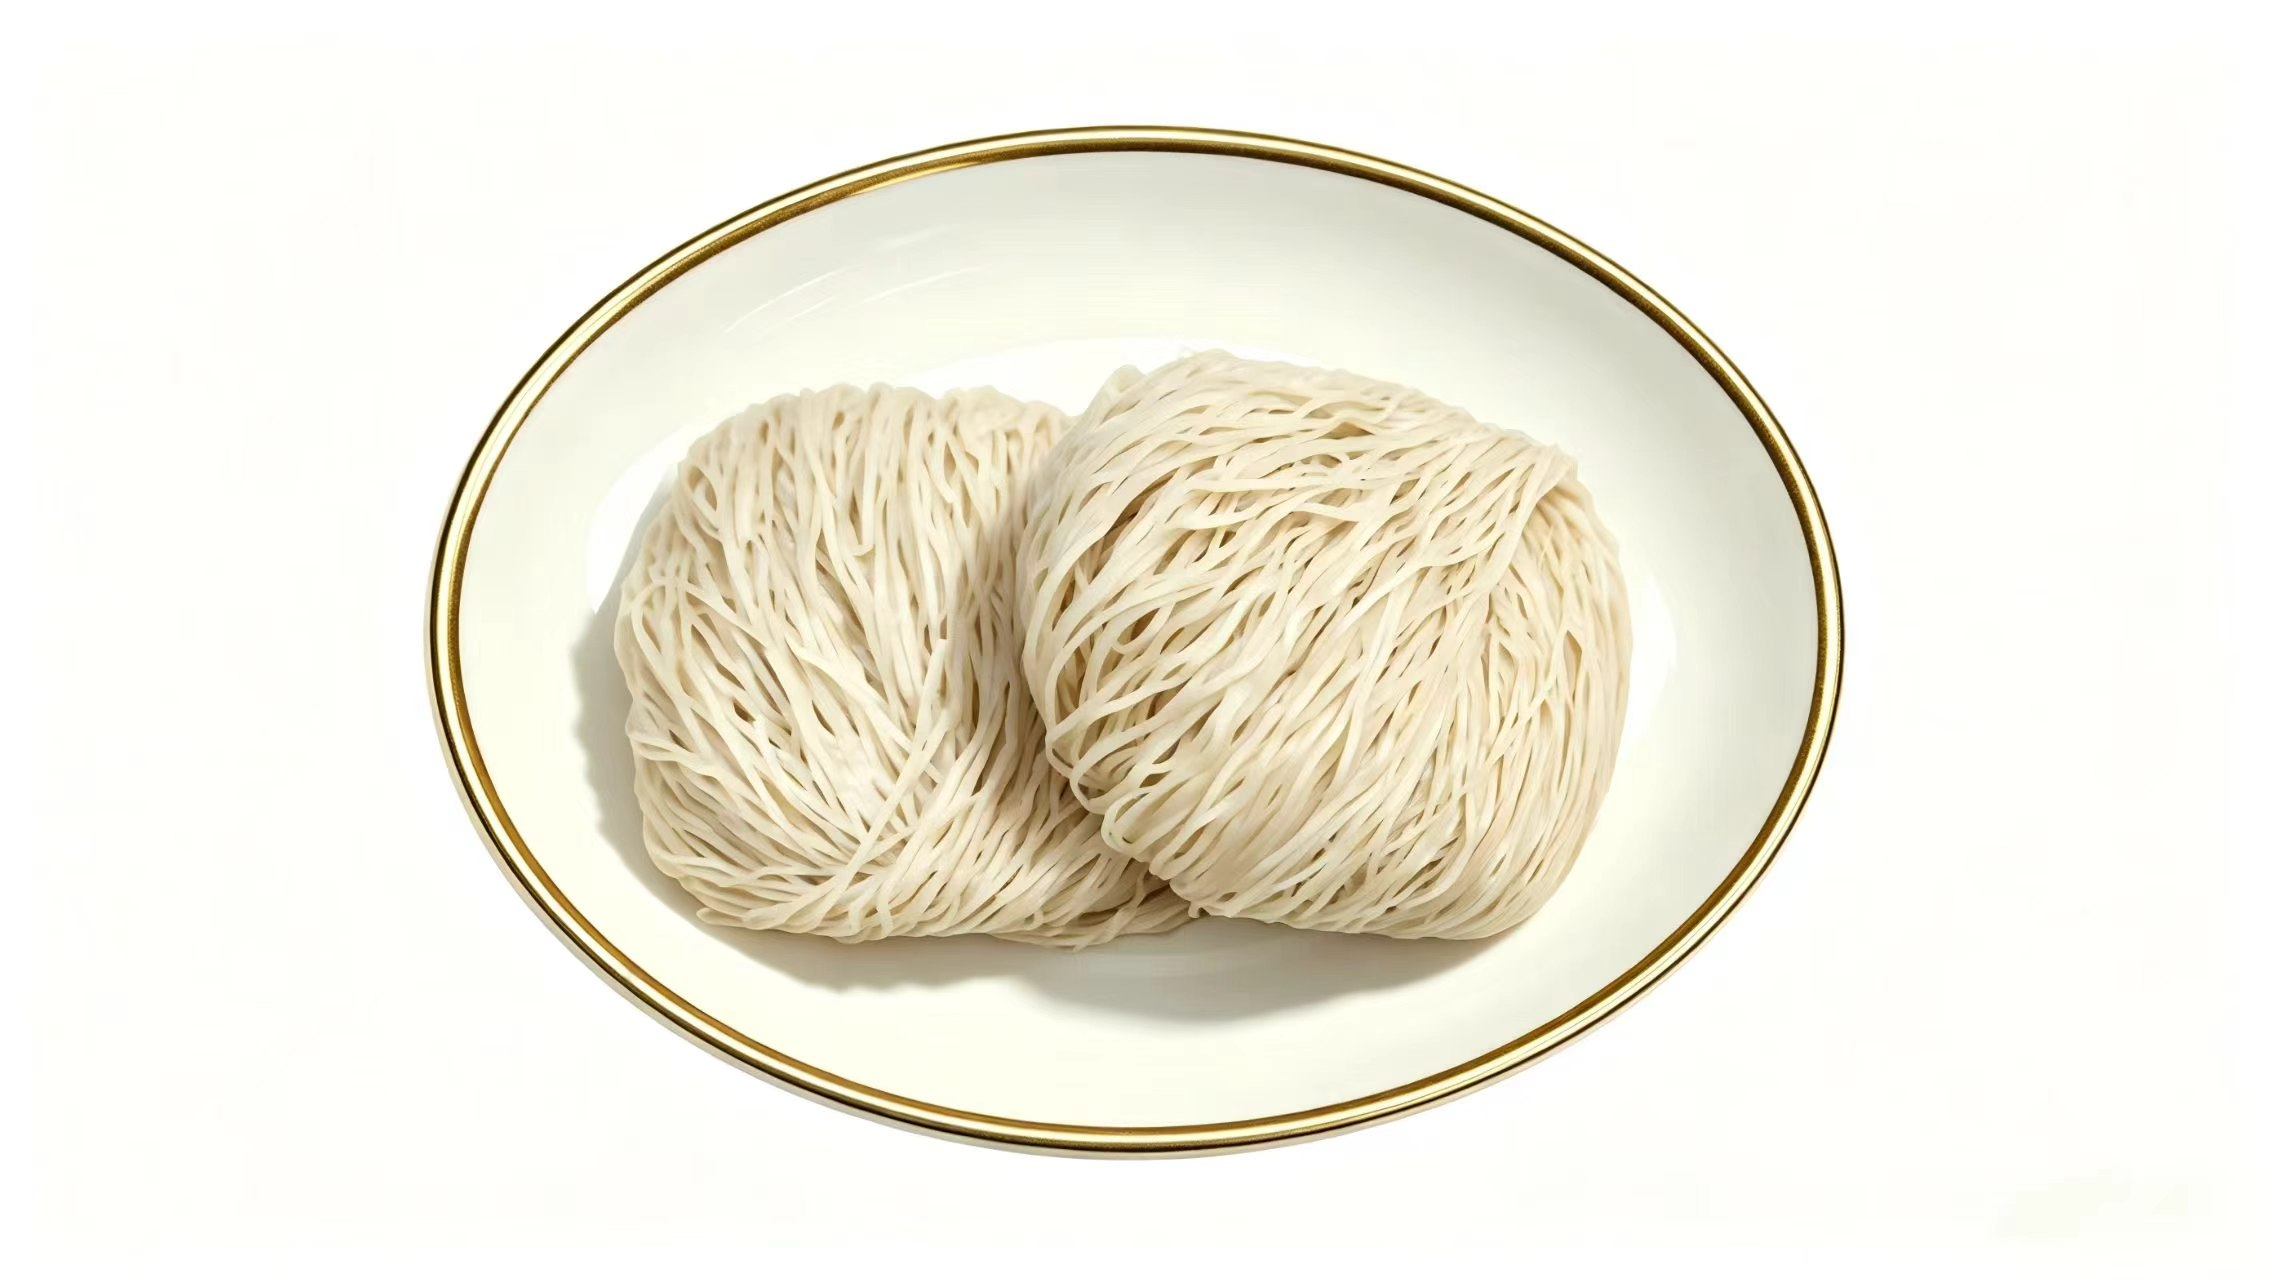
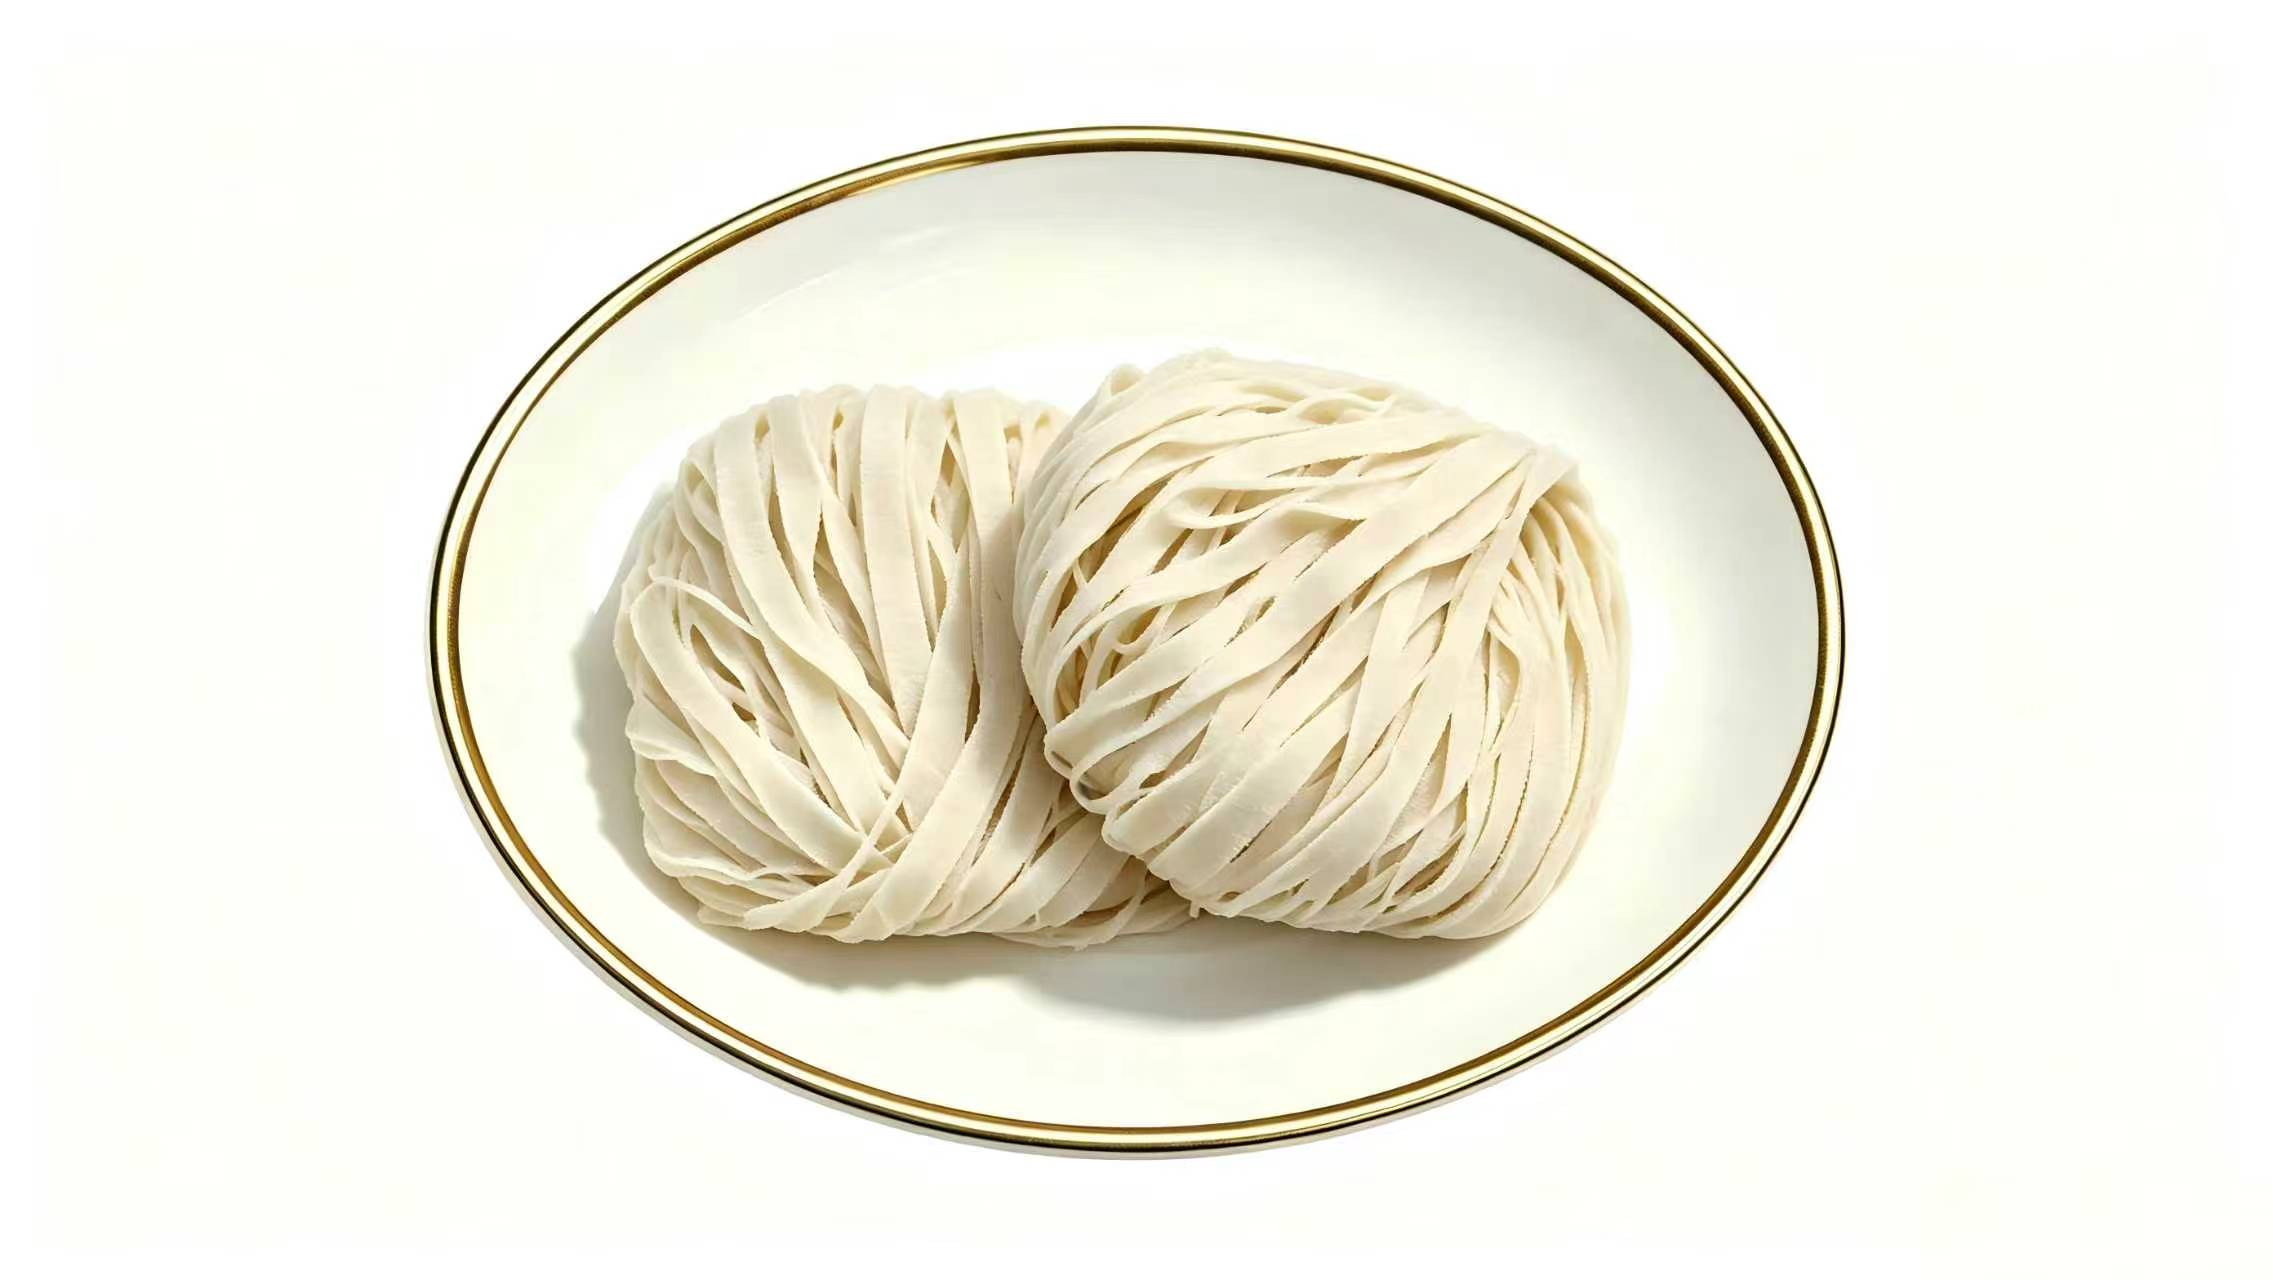
chore: refresh 山藥麵 product image (no watermark) + bump SW v5

diff --git a/service-worker.js b/service-worker.js
@@ -3,7 +3,7 @@
  * 提供離線緩存功能
  */
 
-const CACHE_NAME = 'yauhing-inventory-v4';
+const CACHE_NAME = 'yauhing-inventory-v5';
 
 // 需要緩存的靜態資源
 const urlsToCache = [
@@ -11,6 +11,7 @@ const urlsToCache = [
   '/manifest-inventory.json',
   '/icon-warehouse-192.png',
   '/icon-warehouse-512.png',
+  '/images/product_yam_noodle.jpg',
   'https://www.gstatic.com/firebasejs/9.6.1/firebase-app-compat.js',
   'https://www.gstatic.com/firebasejs/9.6.1/firebase-firestore-compat.js',
   'https://www.gstatic.com/firebasejs/9.6.1/firebase-auth-compat.js'
@@ -20,7 +21,7 @@ const urlsToCache = [
  * 安裝事件：緩存靜態資源
  */
 self.addEventListener('install', event => {
-  console.log('[Service Worker] Install v4');
+  console.log('[Service Worker] Install v5');
   event.waitUntil(
     caches.open(CACHE_NAME)
       .then(cache => {